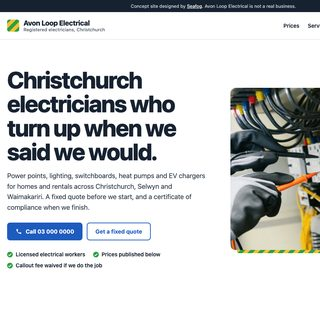
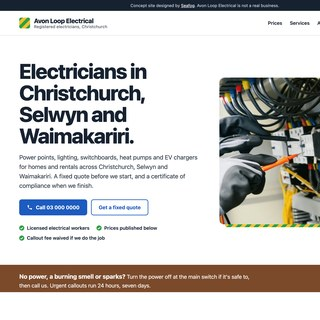
Electrician example thumbnail: new headline

diff --git a/index.html b/index.html
@@ -128,7 +128,7 @@
       <li><a href="examples/wellington-physio/" target="_blank" rel="noopener"><img src="img/examples/wellington-physio-sq.jpg?v=5" alt="Physio clinic site with seven linked pages, ACC check and online booking" width="320" height="320" loading="lazy"><b>Physio clinic</b><span>Wellington</span></a></li>
       <li><a href="examples/mount-yoga/" target="_blank" rel="noopener"><img src="img/examples/mount-yoga-sq.jpg?v=1" alt="Yoga studio site with a weekly timetable and class booking" width="320" height="320" loading="lazy"><b>Yoga studio</b><span>Mount Maunganui</span></a></li>
       <li><a href="examples/queenstown-tours/" target="_blank" rel="noopener"><img src="img/examples/queenstown-tours-sq.jpg?v=6" alt="Kayak tour company with online booking" width="320" height="320" loading="lazy"><b>Kayak tours</b><span>Queenstown</span></a></li>
-      <li><a href="examples/christchurch-electrician/" target="_blank" rel="noopener"><img src="img/examples/christchurch-electrician-sq.jpg?v=3" alt="Electrician with a price guide and estimate builder" width="320" height="320" loading="lazy"><b>Electrician</b><span>Christchurch</span></a></li>
+      <li><a href="examples/christchurch-electrician/" target="_blank" rel="noopener"><img src="img/examples/christchurch-electrician-sq.jpg?v=4" alt="Electrician with a price guide and estimate builder" width="320" height="320" loading="lazy"><b>Electrician</b><span>Christchurch</span></a></li>
       <li><a href="examples/auckland-dentist/" target="_blank" rel="noopener"><img src="img/examples/auckland-dentist-sq.jpg?v=3" alt="Dental clinic with online booking" width="320" height="320" loading="lazy"><b>Dental clinic</b><span>Auckland</span></a></li>
       <li><a href="examples/nelson-ceramics/" target="_blank" rel="noopener"><img src="img/examples/nelson-ceramics-sq.jpg?v=3" alt="Ceramics studio store with a working bag" width="320" height="320" loading="lazy"><b>Online store</b><span>Nelson</span></a></li>
       <li><a href="examples/wanaka-lodge/" target="_blank" rel="noopener"><img src="img/examples/wanaka-lodge-sq.jpg?v=3" alt="Lodge with a date-range booking calendar" width="320" height="320" loading="lazy"><b>Lodge</b><span>Wānaka</span></a></li>

diff --git a/squarespace-website-design.html b/squarespace-website-design.html
@@ -114,7 +114,7 @@
       <li><a href="examples/wellington-physio/" target="_blank" rel="noopener"><img src="img/examples/wellington-physio-sq.jpg?v=5" alt="Physio clinic site with seven linked pages, ACC check and online booking" width="320" height="320" loading="lazy"><b>Physio clinic</b><span>Wellington</span></a></li>
       <li><a href="examples/mount-yoga/" target="_blank" rel="noopener"><img src="img/examples/mount-yoga-sq.jpg?v=1" alt="Yoga studio site with a weekly timetable and class booking" width="320" height="320" loading="lazy"><b>Yoga studio</b><span>Mount Maunganui</span></a></li>
       <li><a href="examples/queenstown-tours/" target="_blank" rel="noopener"><img src="img/examples/queenstown-tours-sq.jpg?v=6" alt="Kayak tour company with online booking" width="320" height="320" loading="lazy"><b>Kayak tours</b><span>Queenstown</span></a></li>
-      <li><a href="examples/christchurch-electrician/" target="_blank" rel="noopener"><img src="img/examples/christchurch-electrician-sq.jpg?v=3" alt="Electrician with a price guide and estimate builder" width="320" height="320" loading="lazy"><b>Electrician</b><span>Christchurch</span></a></li>
+      <li><a href="examples/christchurch-electrician/" target="_blank" rel="noopener"><img src="img/examples/christchurch-electrician-sq.jpg?v=4" alt="Electrician with a price guide and estimate builder" width="320" height="320" loading="lazy"><b>Electrician</b><span>Christchurch</span></a></li>
       <li><a href="examples/auckland-dentist/" target="_blank" rel="noopener"><img src="img/examples/auckland-dentist-sq.jpg?v=3" alt="Dental clinic with online booking" width="320" height="320" loading="lazy"><b>Dental clinic</b><span>Auckland</span></a></li>
       <li><a href="examples/nelson-ceramics/" target="_blank" rel="noopener"><img src="img/examples/nelson-ceramics-sq.jpg?v=3" alt="Ceramics studio store with a working bag" width="320" height="320" loading="lazy"><b>Online store</b><span>Nelson</span></a></li>
       <li><a href="examples/wanaka-lodge/" target="_blank" rel="noopener"><img src="img/examples/wanaka-lodge-sq.jpg?v=3" alt="Lodge with a date-range booking calendar" width="320" height="320" loading="lazy"><b>Lodge</b><span>Wānaka</span></a></li>
